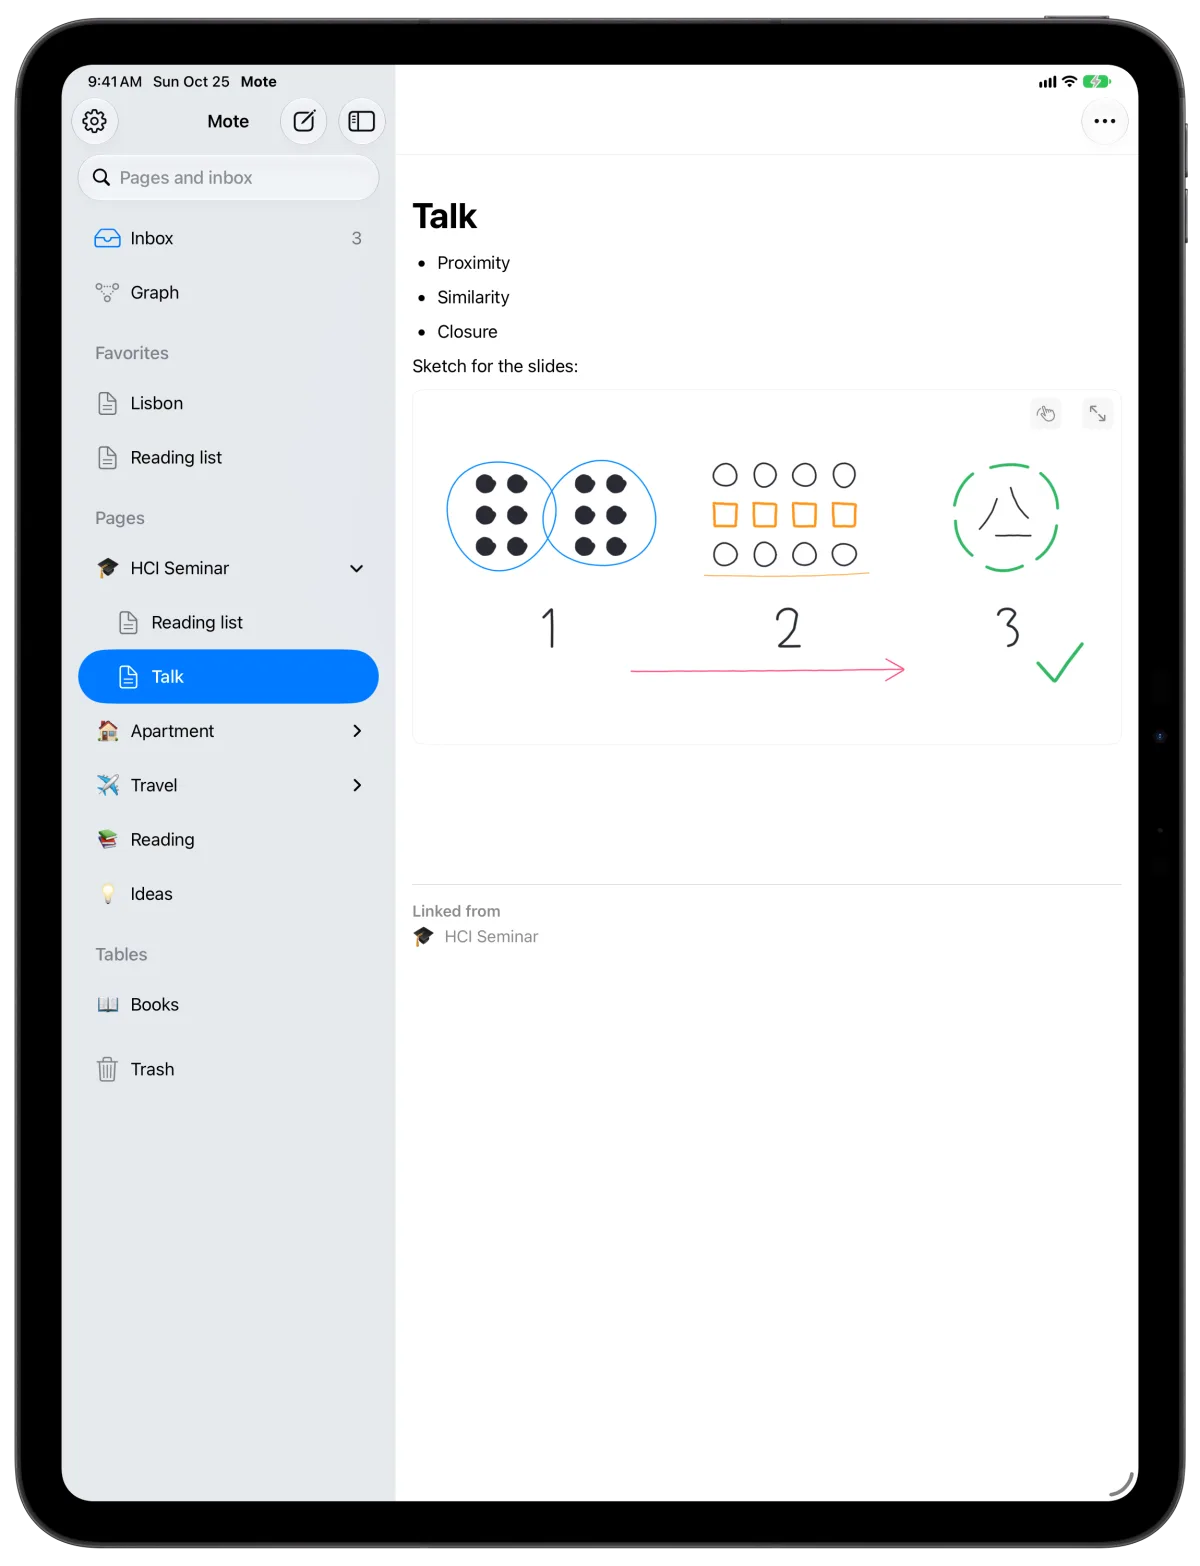
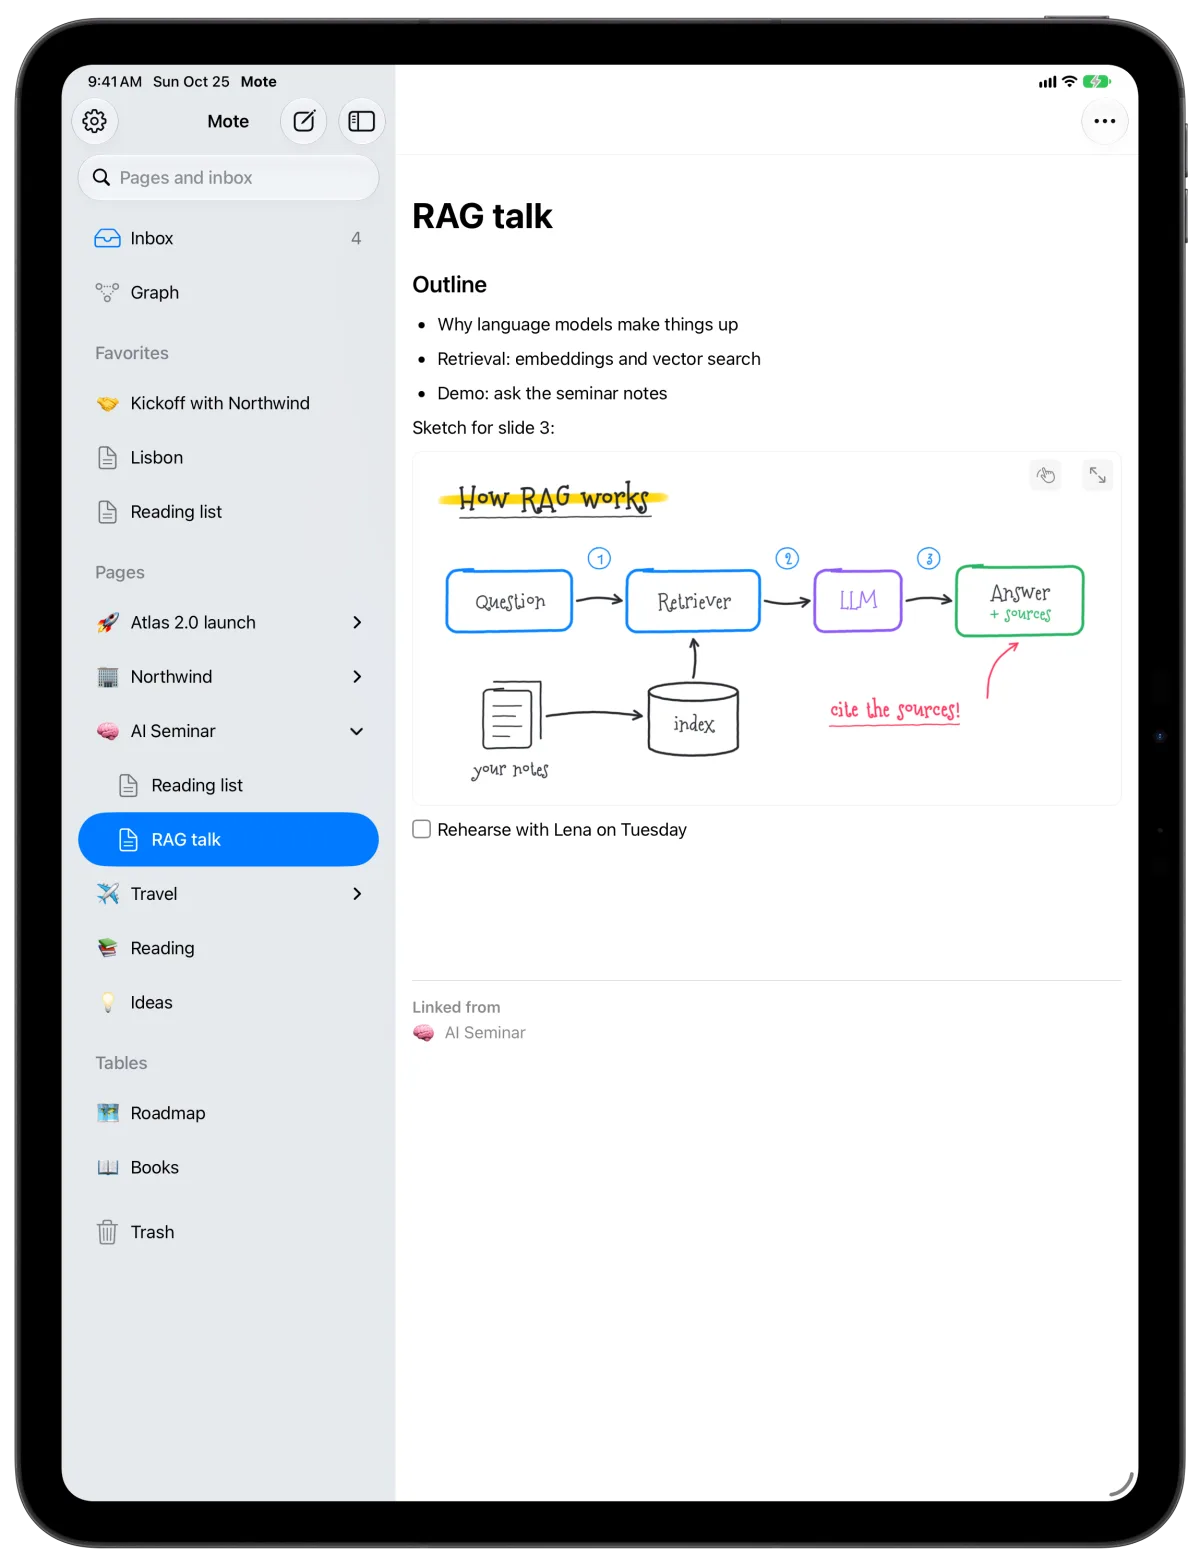
content: new screenshot content for work and study
- All shots re-taken from the app's new "website" seed: an "Atlas 2.0 launch" with a roadmap table,
  a client kickoff with Northwind (event, mail and reminder blocks), an "AI Seminar" with a reading
  list and a RAG talk, plus a little travel and reading.
- The Apple Pencil page now shows a hand-drawn "How RAG works" diagram with handwritten labels.
- Tables show the roadmap on the Mac and the book list on iPhone; copy and alt texts follow the
  new content (no more landlord and apartment viewing).

diff --git a/src/routes/+page.svelte b/src/routes/+page.svelte
@@ -59,7 +59,7 @@
 	</div>
 	<div class="hero-stage wrap">
 		<Device kind="mac" name="inbox" alt="Mote on a MacBook Air: the inbox as a chat next to the sidebar with pages and tables" eager class="hero-mac" />
-		<Device kind="iphone" name="reading" alt="Mote on iPhone: the page “Reading” with a book table embedded" eager class="hero-iphone" />
+		<Device kind="iphone" name="launch" alt="Mote on iPhone: the page “Atlas 2.0 launch” with goals, to-dos and the roadmap table" eager class="hero-iphone" />
 	</div>
 </section>
 
@@ -78,7 +78,7 @@
 			</ul>
 		</div>
 		<div class="media" use:reveal={120}>
-			<Device kind="iphone" name="inbox" alt="The Mote inbox on iPhone with notes, a checklist and filing suggestions" class="phone" />
+			<Device kind="iphone" name="inbox" alt="The Mote inbox on iPhone: work and seminar notes, a to-do and filing suggestions" class="phone" />
 		</div>
 	</div>
 </section>
@@ -89,13 +89,13 @@
 		<p class="eyebrow">Pages</p>
 		<h2 id="pages-title" class="title">Pages within pages.</h2>
 		<p class="lead">
-			Give every part of your life a page, and every detail a subpage. Build them from blocks, link them together, and keep them in the sidebar
+			Give every project, client and course a page, and every detail a subpage. Build them from blocks, link them together, and keep them in the sidebar
 			you arrange yourself.
 		</p>
 	</div>
 	<div class="duo wrap" use:reveal={100}>
 		<Device kind="iphone" name="pages" alt="The page list on iPhone: favourites, pages, tables, the graph and the trash" class="phone" />
-		<Device kind="iphone" name="seminar" alt="A page on iPhone with headings, checked to-dos, bullet points, a quote and subpage links" class="phone" />
+		<Device kind="iphone" name="seminar" alt="The page “AI Seminar” on iPhone with deadlines, notes, a quote and links to its subpages" class="phone" />
 	</div>
 	<ul class="grid wrap">
 		{#each pageFeatures as [title, text], i (title)}
@@ -116,13 +116,13 @@
 			<p class="lead">
 				On iPad, a drawing is just another block. Pick up Apple Pencil and sketch between your notes, <b>no mode to switch, no other app.</b>
 			</p>
-			<img class="drawing-card" src="/shots/card-drawing.webp" alt="A drawing block: three hand-drawn examples of proximity, similarity and closure, an arrow and a check mark" width="1200" height="593" loading="lazy" />
+			<img class="drawing-card" src="/shots/card-drawing.webp" alt="A drawing block: a hand-drawn diagram of how retrieval-augmented generation works, from question to answer with sources" width="1200" height="593" loading="lazy" />
 			<ul class="checks">
 				{#each pencil as [title, text] (title)}<li><b>{title}</b> {text}</li>{/each}
 			</ul>
 		</div>
 		<div class="media" use:reveal={120}>
-			<Device kind="ipad" name="talk" alt="A page on iPad with a drawing block: a sketch of proximity, similarity and closure for a talk" class="tablet" />
+			<Device kind="ipad" name="talk" alt="The page “RAG talk” on iPad: an outline and a hand-drawn diagram for a slide" class="tablet" />
 		</div>
 	</div>
 </section>
@@ -133,13 +133,13 @@
 		<p class="eyebrow">Tables</p>
 		<h2 id="tables-title" class="title">Tables, kept simple.</h2>
 		<p class="lead">
-			A reading list, job applications, a packing list. A table is a small database of its own: <b>text, numbers, dates, choices, checkboxes,
+			A product roadmap, a hiring pipeline, a reading list. A table is a small database of its own: <b>text, numbers, dates, choices, checkboxes,
 				links, events and mail.</b> Sort it, filter it, see it as a grid or a list. Every row opens as a page.
 		</p>
 	</div>
 	<div class="tables-stage wrap" use:reveal={100}>
-		<Device kind="mac" name="tables-dark" alt="The table “Books” on a MacBook Air in dark mode, with author, status and page count" class="tables-mac" />
-		<Device kind="iphone" name="books-dark" alt="The same table on iPhone in dark mode" class="tables-iphone" />
+		<Device kind="mac" name="roadmap-dark" alt="The table “Roadmap” on a MacBook Air in dark mode, with owner, status and due date" class="tables-mac" />
+		<Device kind="iphone" name="books-dark" alt="The table “Books” on iPhone in dark mode, with author and status" class="tables-iphone" />
 	</div>
 	<p class="narrow center note" use:reveal>Embed the same table on as many pages as you like. Change it in one place, and it changes everywhere.</p>
 </section>
@@ -165,7 +165,7 @@
 			</p>
 		</div>
 		<div class="media" use:reveal={120}>
-			<Device kind="iphone" name="ask" alt="Search on iPhone: an answer to “What do I need for the viewing?” with the notes it came from" class="phone" />
+			<Device kind="iphone" name="ask" alt="Search on iPhone: an answer to “What do I need for the kickoff?” with the notes it came from" class="phone" />
 		</div>
 	</div>
 </section>
@@ -179,11 +179,11 @@
 	</div>
 	<div class="wrap split cal">
 		<div class="media" use:reveal>
-			<Device kind="iphone" name="viewing" alt="The page “Apartment viewing” with today’s event, a mail from the landlord, questions and two reminders" class="phone" />
+			<Device kind="iphone" name="kickoff" alt="The page “Kickoff with Northwind” with tomorrow’s event, a mail from the client, the agenda and two reminders" class="phone" />
 		</div>
 		<div class="cards">
 			<article class="card" use:reveal>
-				<img src="/shots/card-event.webp" alt="An event block: Apartment viewing, today 2:00 to 3:00 PM, 5 Main Street" width="1174" height="228" loading="lazy" />
+				<img src="/shots/card-event.webp" alt="An event block: Kickoff with Northwind, tomorrow 10:00 to 11:30 AM, Northwind HQ" width="1136" height="188" loading="lazy" />
 				<h3>Notes find their meeting</h3>
 				<p>
 					Write something during a lecture or a meeting, and Mote links it to that event. Put events on a page as live blocks, or give a table an
@@ -191,7 +191,7 @@
 				</p>
 			</article>
 			<article class="card" use:reveal={80}>
-				<img src="/shots/card-reminders.webp" alt="Two reminder blocks: Transfer the deposit, and Pick up moving boxes" width="1174" height="333" loading="lazy" />
+				<img src="/shots/card-reminders.webp" alt="Two reminder blocks: Send the proposal draft, and Book a room for the workshop" width="1136" height="284" loading="lazy" />
 				<h3>Reminders on the page</h3>
 				<p>
 					Pull in a reminder or create one right where you are writing. Check it off on the page or in Reminders, and both stay in step.
@@ -208,8 +208,8 @@
 		<div class="copy" use:reveal>
 			<p class="eyebrow">Mail</p>
 			<h2 id="mail-title" class="title">Mail, right where it belongs.</h2>
-			<p class="lead">The confirmation, the landlord’s answer, the ticket. Keep the mails that matter next to the notes they belong to.</p>
-			<img class="mail-card" src="/shots/card-mail.webp" alt="A mail card: Viewing on Saturday – documents, from Anna Becker, with two attachments" width="1174" height="258" loading="lazy" />
+			<p class="lead">The client’s reply, the booking confirmation, the invoice. Keep the mails that matter next to the notes they belong to.</p>
+			<img class="mail-card" src="/shots/card-mail.webp" alt="A mail card: Kickoff: agenda and project brief, from Sarah Chen, with two attachments" width="1136" height="210" loading="lazy" />
 			<ul class="checks">
 				<li><b>Drag a mail from Apple Mail</b> into the inbox or onto any page. It becomes a card with sender, subject, a preview and the attachments.</li>
 				<li><b>Pick senders once,</b> and on the Mac the Mote extension for Mail drops their mails into your inbox on its own.</li>
@@ -218,7 +218,7 @@
 			</ul>
 		</div>
 		<div class="media" use:reveal={120}>
-			<Device kind="iphone" name="mail" alt="The Mote inbox on iPhone with a mail card among the notes" class="phone" />
+			<Device kind="iphone" name="mail" alt="The Mote inbox on iPhone with the client’s mail as a card below the notes" class="phone" />
 		</div>
 	</div>
 </section>
@@ -262,8 +262,8 @@
 		</p>
 	</div>
 	<div class="everywhere-stage wrap" use:reveal={100}>
-		<Device kind="ipad" name="viewing" alt="The page “Apartment viewing” on iPad, next to the sidebar with all pages and tables" class="ev-ipad" />
-		<Device kind="iphone" name="viewing-dark" alt="The same page on iPhone in dark mode" class="ev-iphone" />
+		<Device kind="ipad" name="kickoff" alt="The page “Kickoff with Northwind” on iPad, next to the sidebar with all pages and tables" class="ev-ipad" />
+		<Device kind="iphone" name="kickoff-dark" alt="The same page on iPhone in dark mode" class="ev-iphone" />
 	</div>
 </section>
 

diff --git a/README.md b/README.md
@@ -28,9 +28,10 @@ pnpm build      # static pages + Vercel output
 
 ## Screenshots
 
-The shots are the real app with the UI-test seed data (`-uitest -seed showcase-en`, see `docs/BUILDING.md` and
-`Design/AppStore/README.md` in the app repo): iPhone 17 Pro Max and iPad Pro 13" (M5) simulators, and the Mac app
-with `-windowSize 1280x795` so the window fills the MacBook Air screen below the menu bar.
+The shots are the real app with the UI-test seed data (`-uitest -seed website`, the inbox shot `-seed website-inbox`;
+the scenario is `UITestWebsite.swift` in the app repo, how to shoot is in `Design/AppStore/README.md` there): iPhone 17
+Pro Max and iPad Pro 13" (M5) simulators, and the Mac app with `-windowSize 1280x795` so the window fills the MacBook Air
+screen below the menu bar. The drawing on "RAG talk" is generated from the single-stroke font EMS Elfin (SIL OFL).
 
 ```sh
 scripts/shots.sh <raw dir> <bezel dir>
